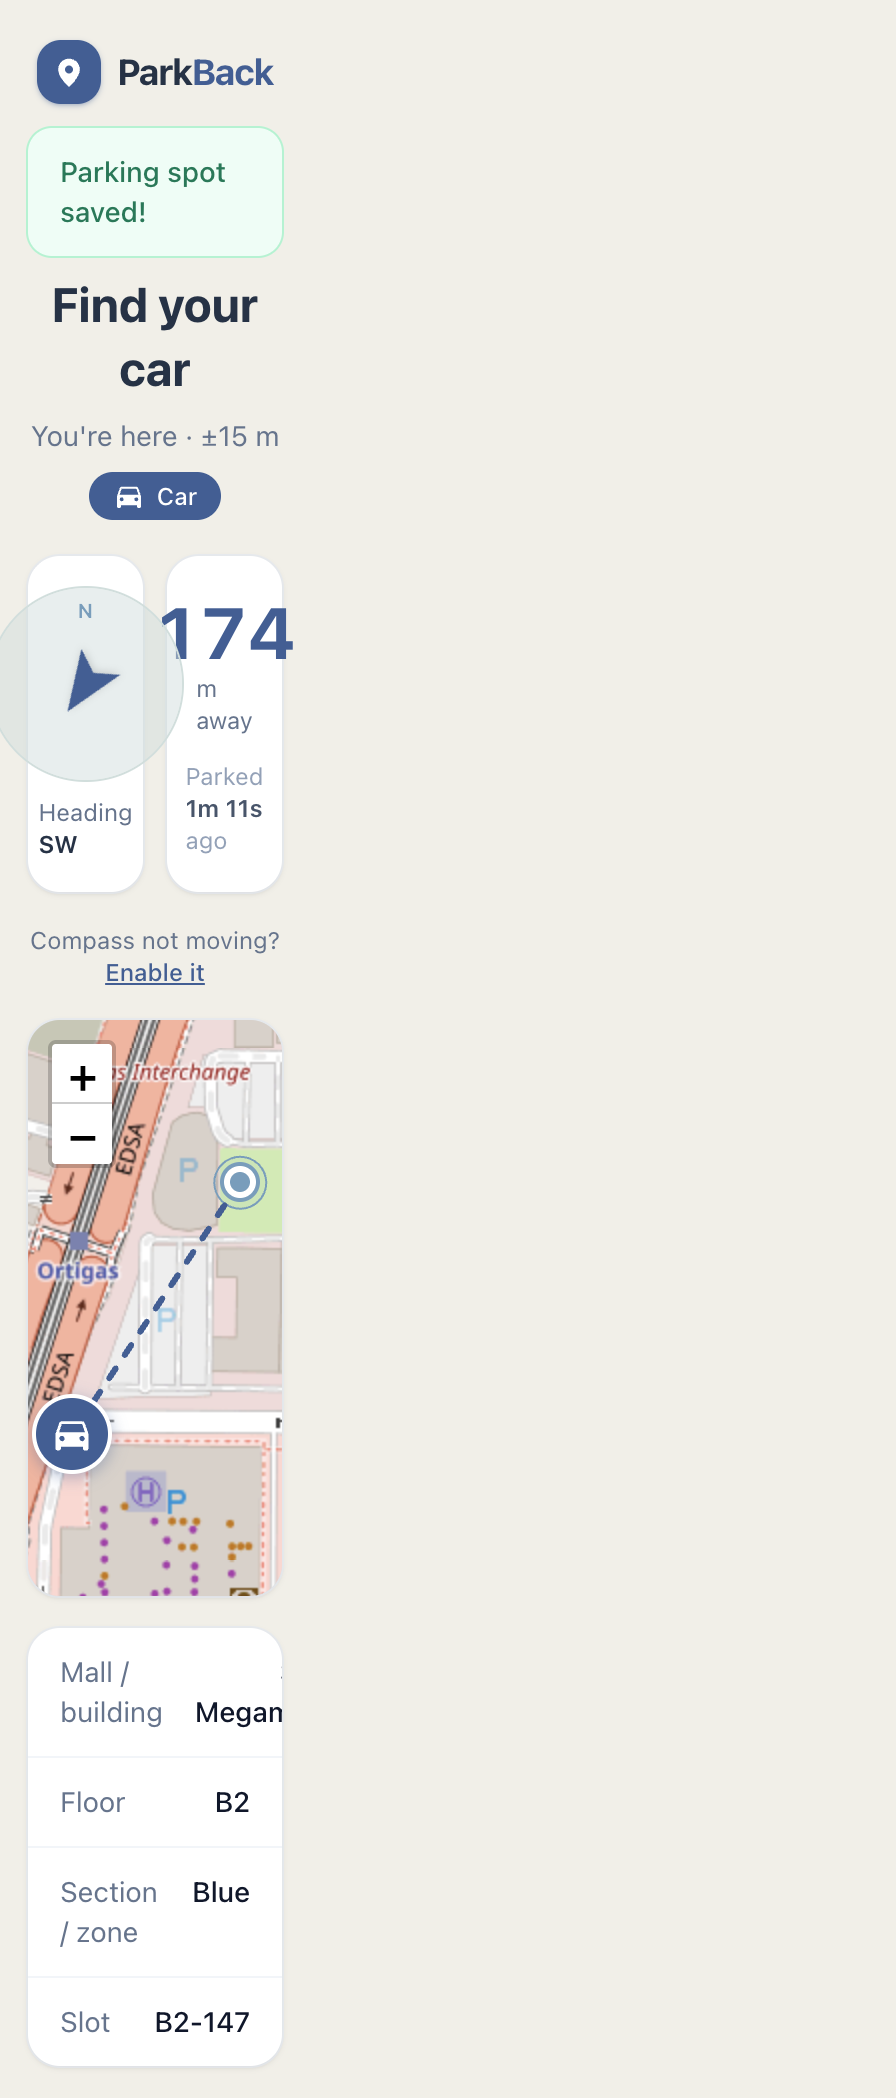
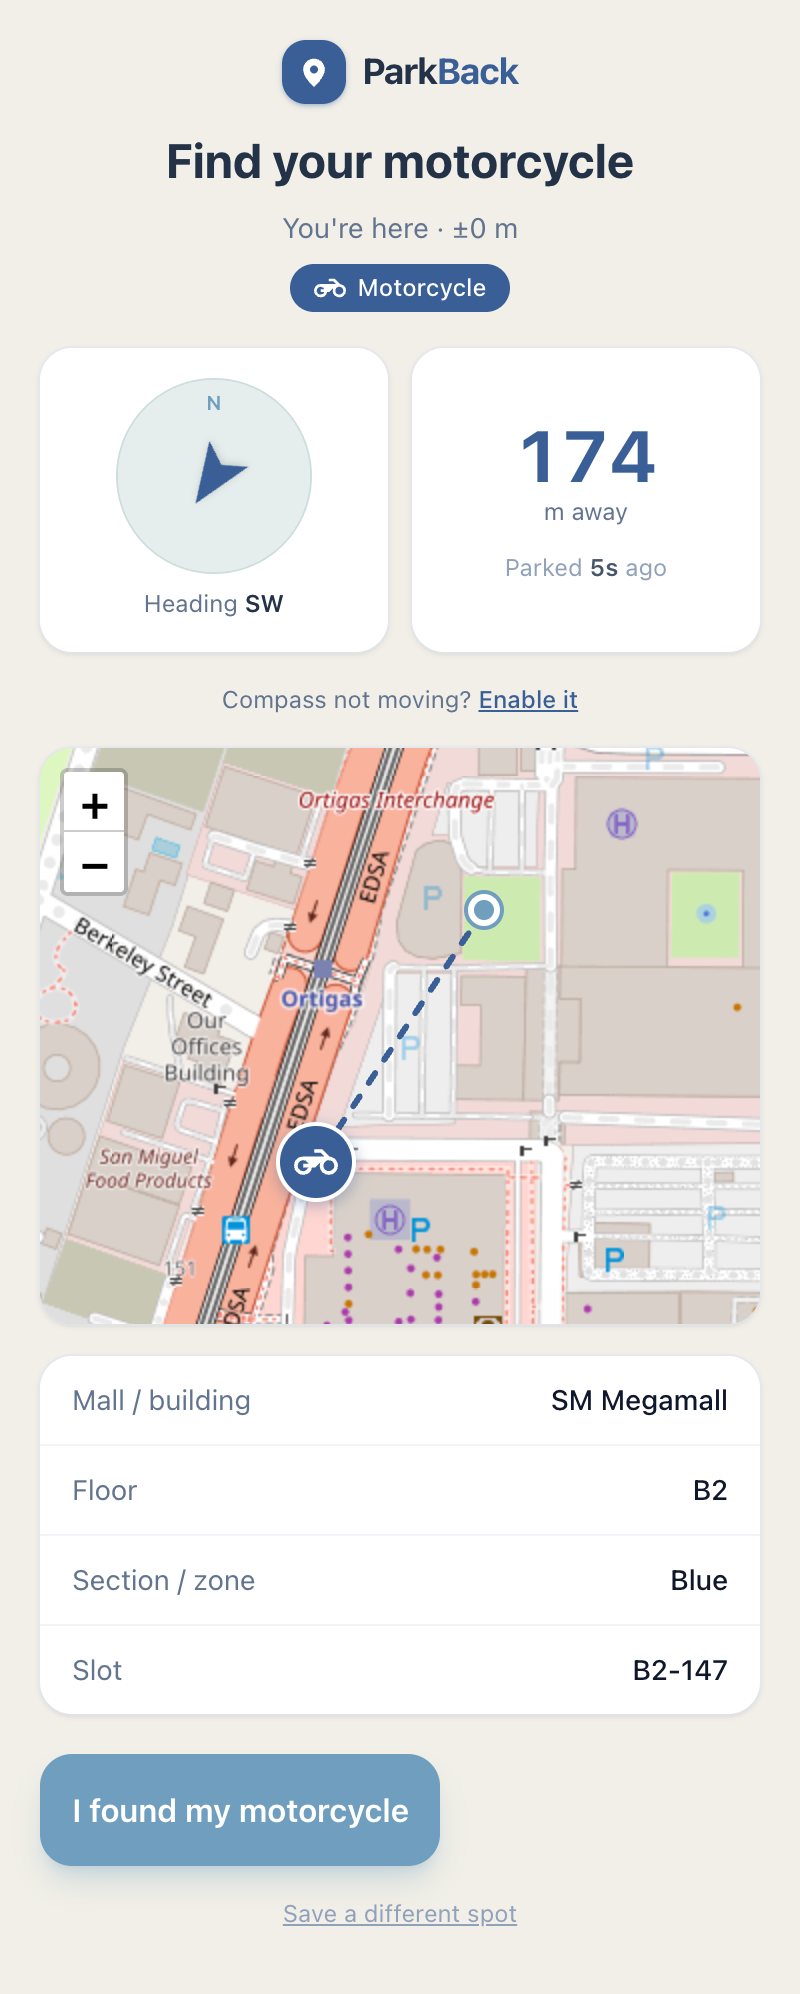
Replace screenshots with clean retina captures (save + find)

diff --git a/README.md b/README.md
@@ -7,6 +7,8 @@ you back. Save your GPS spot with a tap, add a few details and a photo, then let
 ParkBack show you the distance, direction, and a map back to your vehicle.
 
 <p align="center">
+  <img src="docs/screenshots/save.png" alt="ParkBack – Save Parking Location screen" width="300">
+  &nbsp;&nbsp;
   <img src="docs/screenshots/find.png" alt="ParkBack – Find My Car screen" width="300">
 </p>
 
